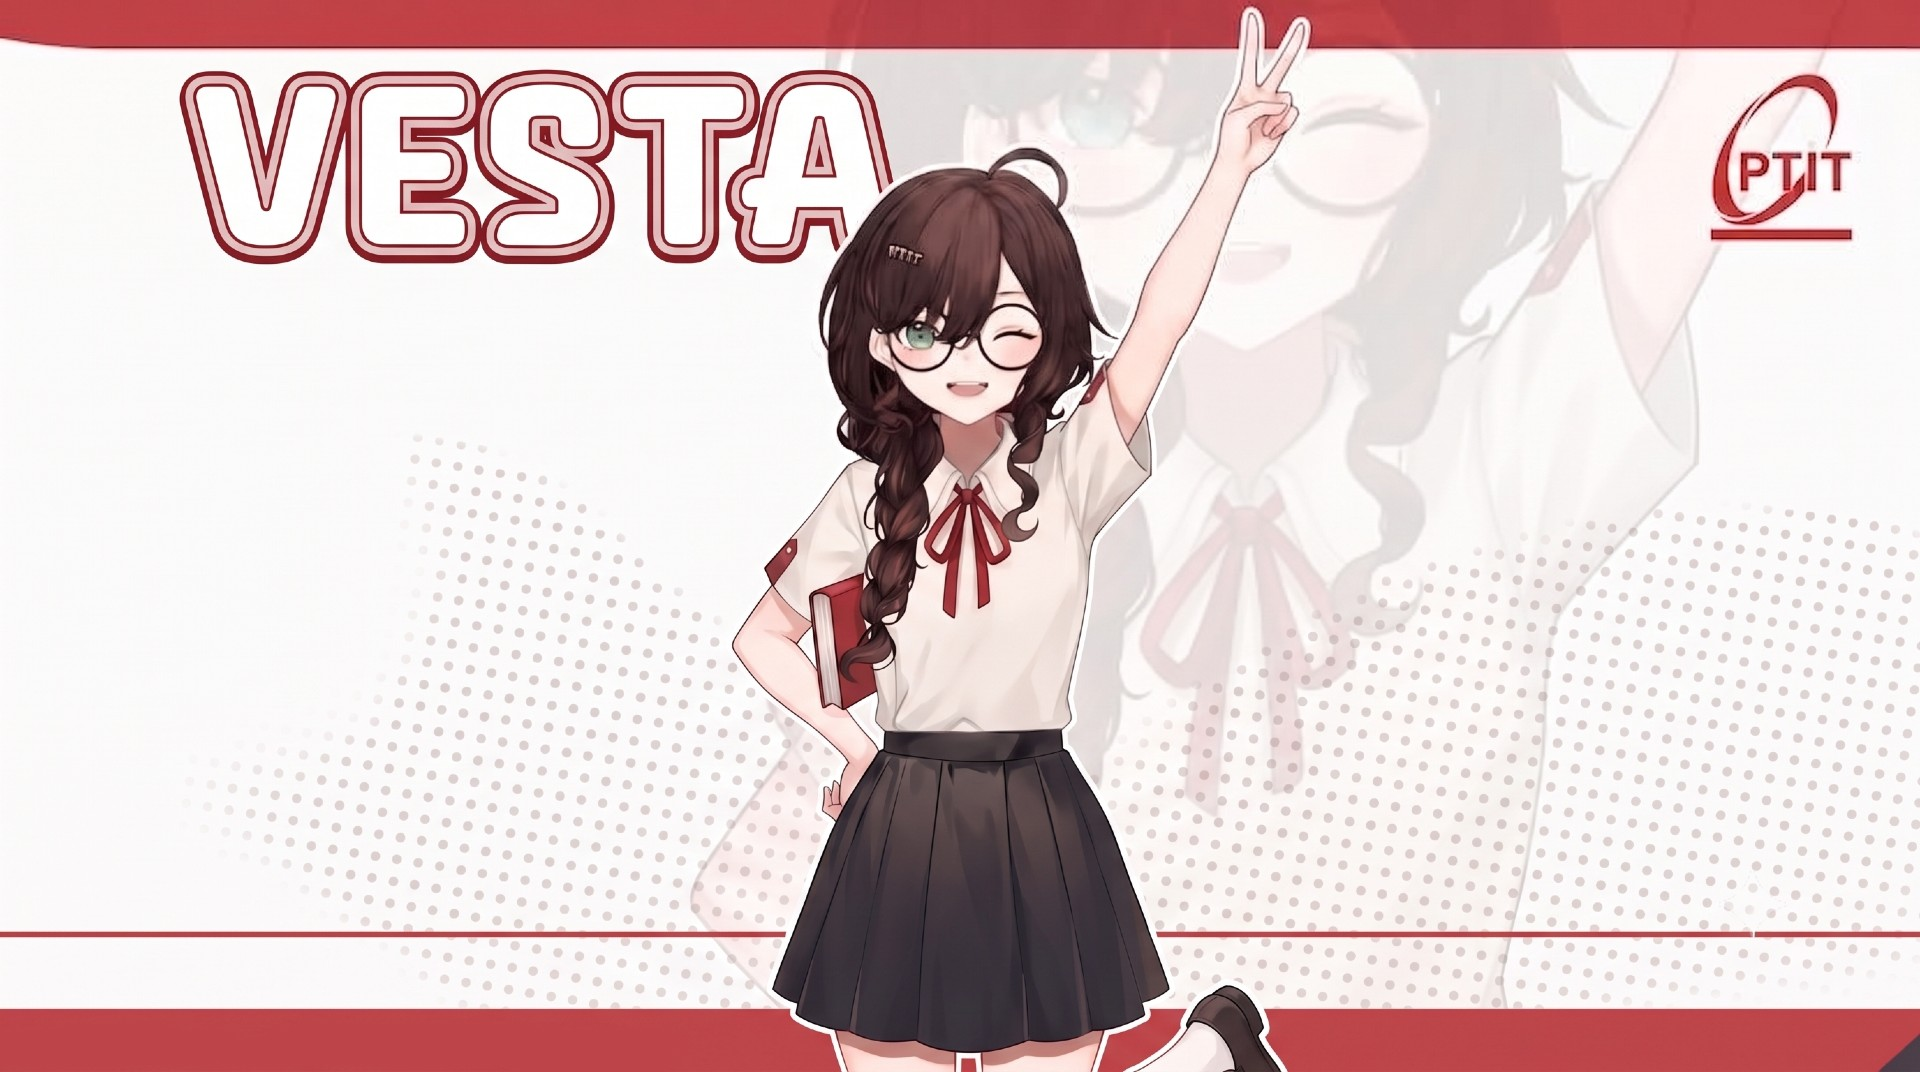
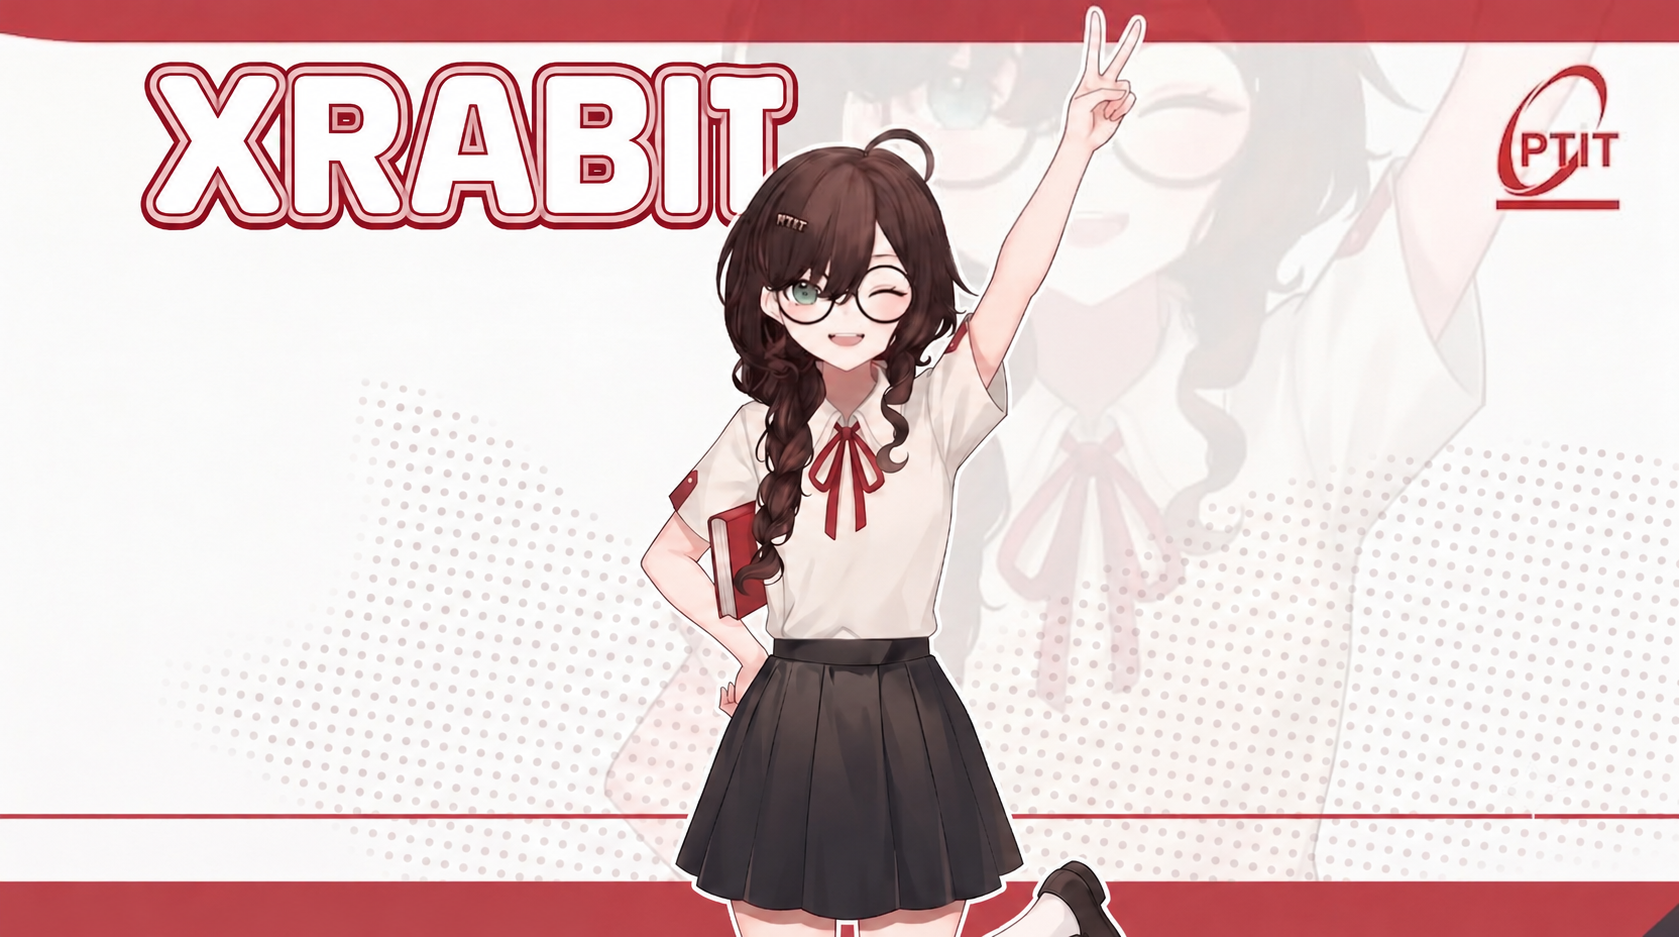
vesta to xrabit

diff --git a/README.md b/README.md
@@ -1,4 +1,4 @@
-# vesta ~ cybersecurity
+# xrabit ~ cybersecurity
 <div>
 <img src="./assets/ptit.png" width="300" align="right" />
 <br/>
